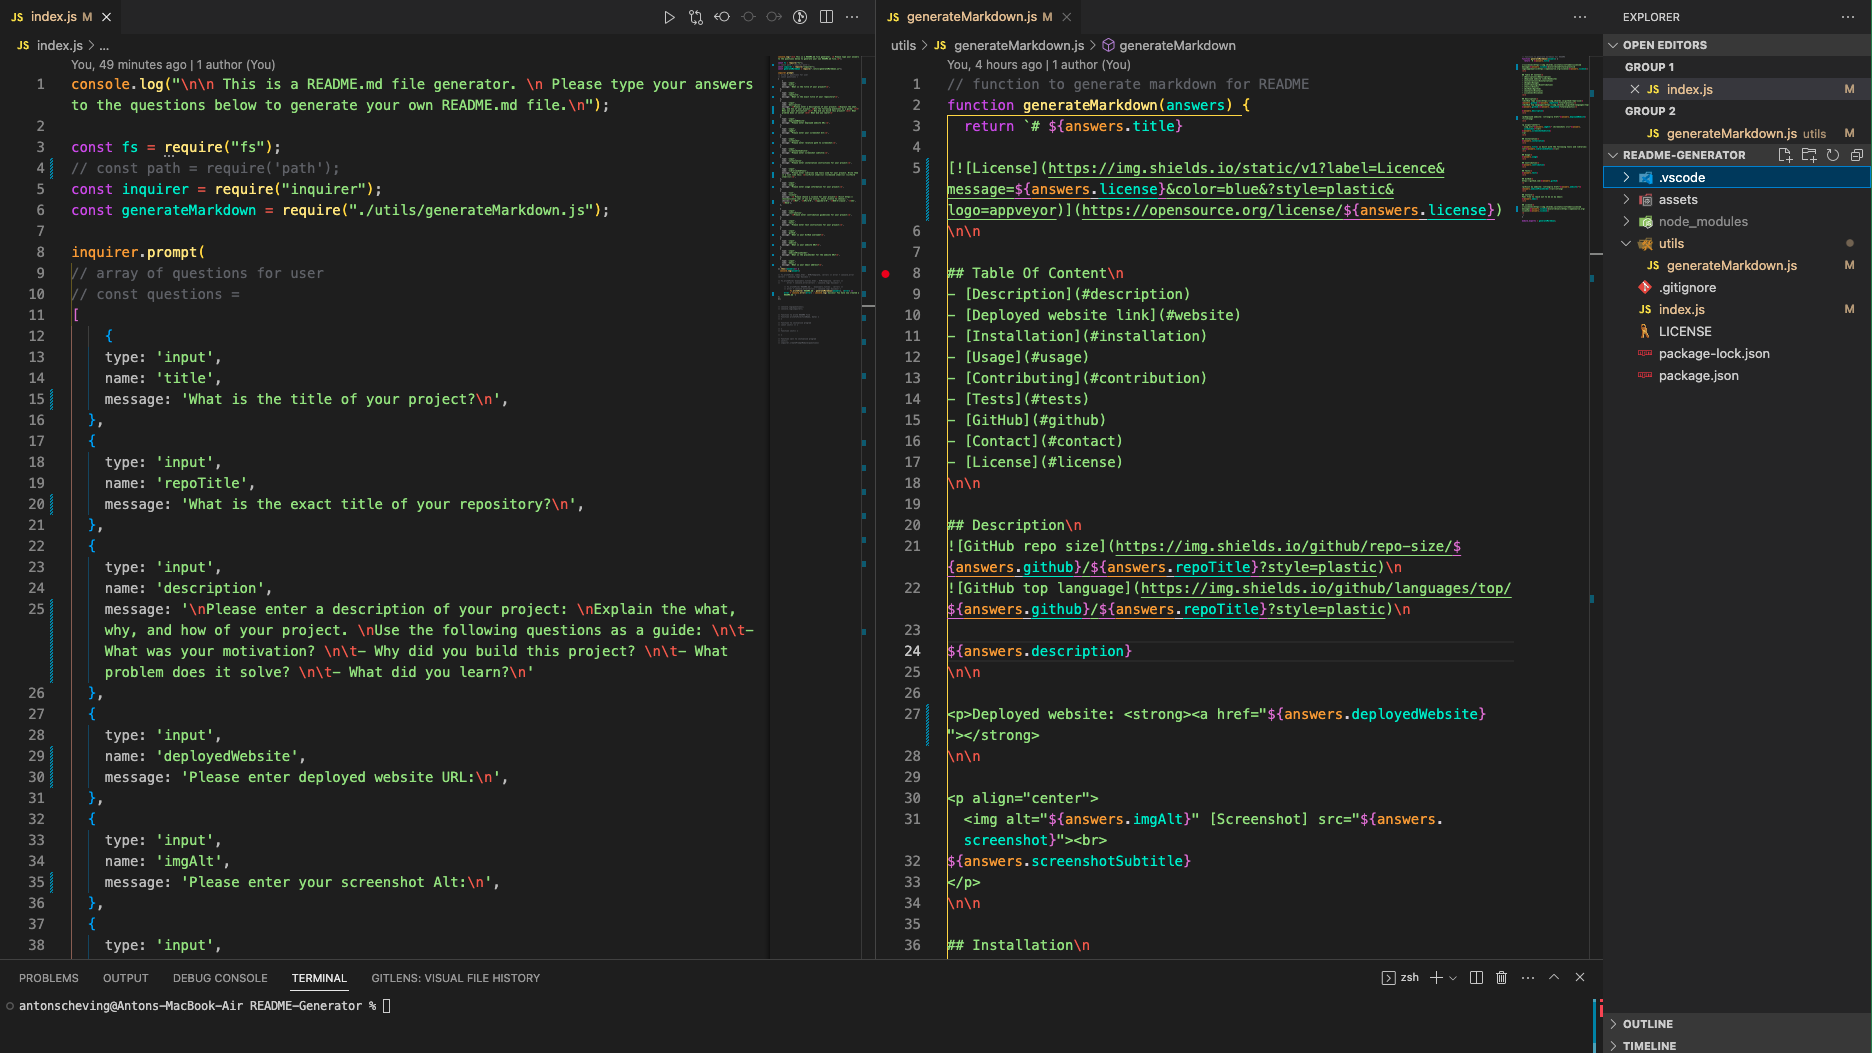
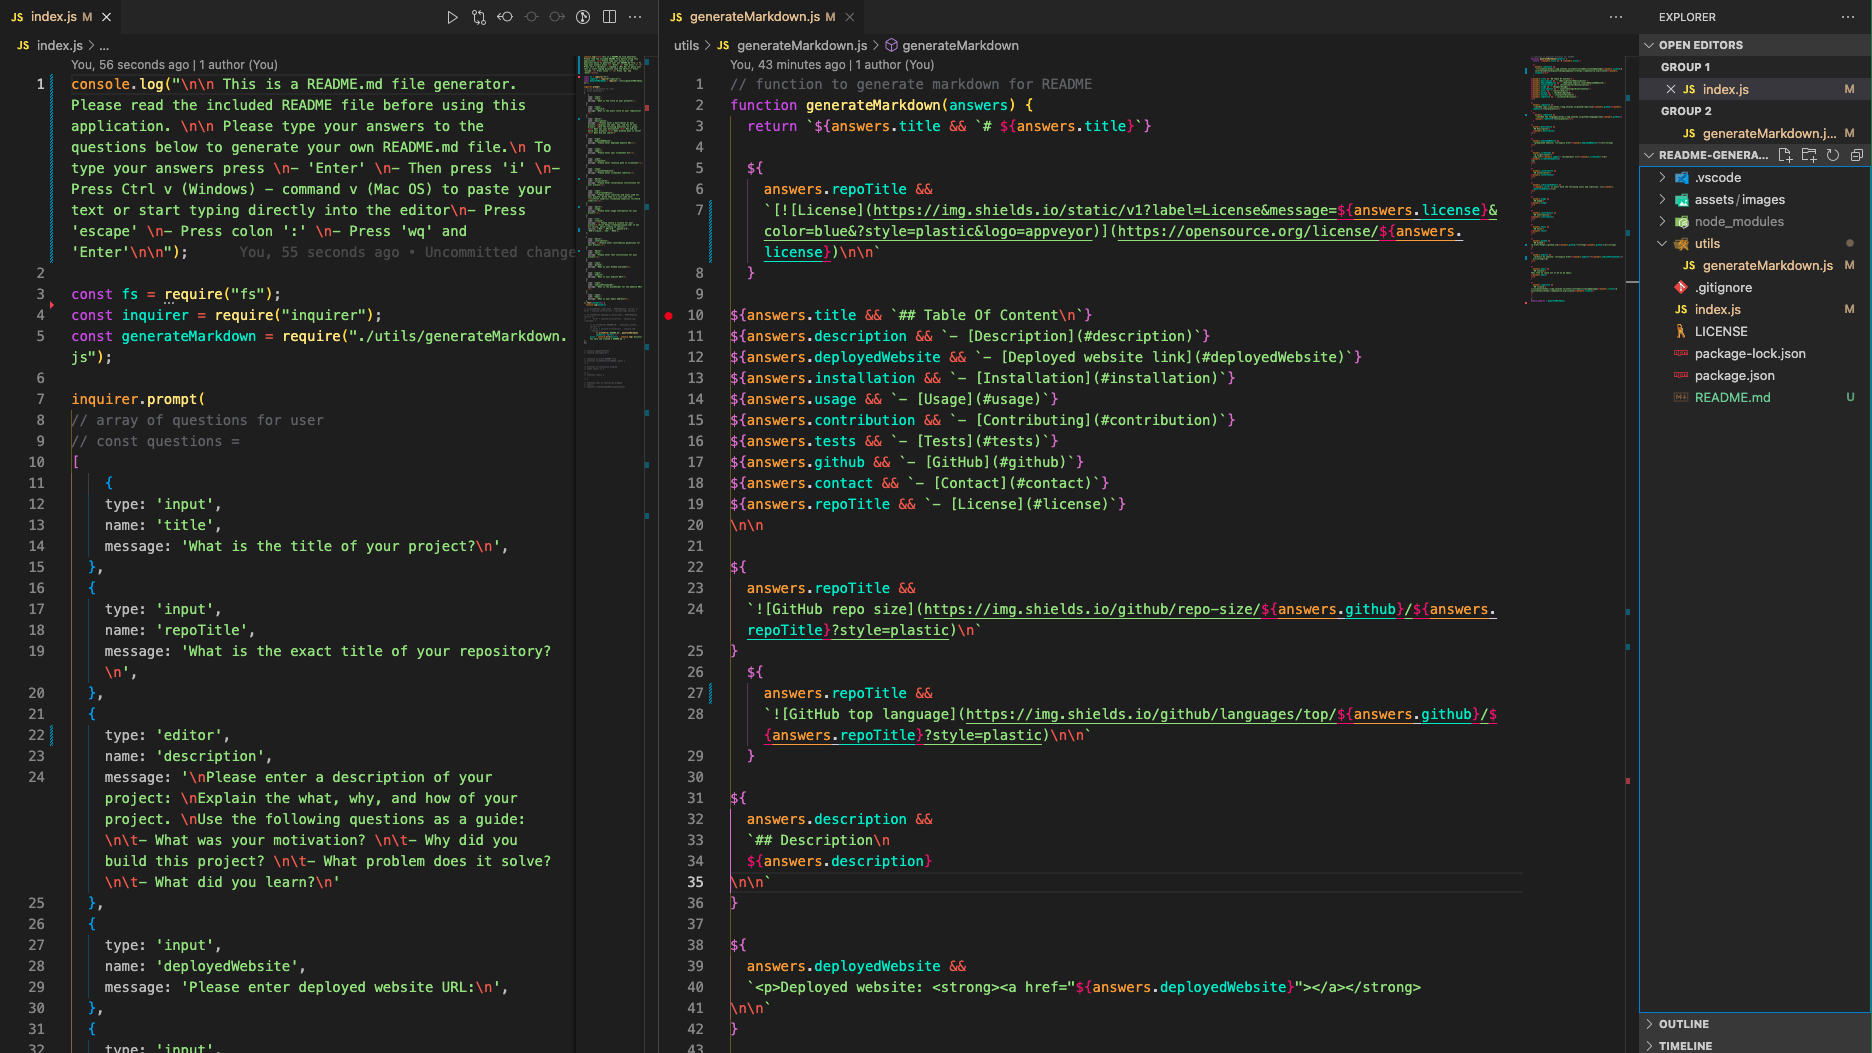
final touches

diff --git a/utils/generateMarkdown.js b/utils/generateMarkdown.js
@@ -4,8 +4,7 @@ function generateMarkdown(answers) {
 
   ${
     answers.repoTitle &&
-    `[![License](https://img.shields.io/static/v1?label=Licence&message=${answers.license}&color=blue&?style=plastic&logo=appveyor)](https://opensource.org/license/${answers.license})
-\n\n`
+    `[![License](https://img.shields.io/static/v1?label=License&message=${answers.license}&color=blue&?style=plastic&logo=appveyor)](https://opensource.org/license/${answers.license})\n\n`
   }
 
 ${answers.title && `## Table Of Content\n`}
@@ -16,7 +15,7 @@ ${answers.usage && `- [Usage](#usage)`}
 ${answers.contribution && `- [Contributing](#contribution)`}
 ${answers.tests && `- [Tests](#tests)`}
 ${answers.github && `- [GitHub](#github)`}
-${answers.contact && `- [Contact](#contact)`}
+${answers.email && `- [Contact](#contact)`}
 ${answers.repoTitle && `- [License](#license)`}
 \n\n
 
@@ -25,7 +24,7 @@ ${
   `![GitHub repo size](https://img.shields.io/github/repo-size/${answers.github}/${answers.repoTitle}?style=plastic)\n`
 }
   ${
-    answers.github &&
+    answers.repoTitle &&
     `![GitHub top language](https://img.shields.io/github/languages/top/${answers.github}/${answers.repoTitle}?style=plastic)\n\n`
   }
 
@@ -35,13 +34,13 @@ ${
   ${answers.description}
 \n\n`
 }
-
+\n
 ${
   answers.deployedWebsite &&
   `<p>Deployed website: <strong><a href="${answers.deployedWebsite}"></a></strong>
 \n\n`
 }
-
+\n
 ${
   answers.screenshot &&
   `<p align="center">
@@ -50,7 +49,7 @@ ${answers.screenshotSubtitle}
 </p>
 \n\n`
 }
-
+\n
 ${
   answers.installation &&
   `## Installation\n
@@ -63,41 +62,41 @@ ${
   `${answers.title} is built with the following tools and libraries: <ul>${answers.librariesAndTools}</ul>
 \n\n`
 }
-
+\n
 ${
   answers.usage &&
   `## Usage\n 
 ${answers.usage}
 \n\n`
 }
-
+\n
 ${
   answers.contribution &&
   `## Contribution\n 
 ${answers.contribution}
 \n\n`
 }
-
+\n
 ${
   answers.tests &&
   `## Tests\n 
 ${answers.tests}
 \n\n`
 }
-
+\n
 ${
   answers.github &&
   `## GitHub\n
-https://github.com/${answers.github}
+<a href="https://github.com/${answers.github}"><strong>${answers.github}</a></strong>
 \n`
 }
 
 ${
   answers.website &&
-  `<p>Visit my website: <strong><a href="${answers.website}">${answers.webLinkPlaceholder}</a></strong>
+  `<p>Visit my website: <strong><a href="${answers.website}">${answers.webLinkPlaceholder}</a></strong></p>
 \n\n`
 }
-
+\n
 ${
   answers.email &&
   `## Contact\n
@@ -105,7 +104,7 @@ Feel free to reach out to me on my email:
 ${answers.email}
 \n\n`
 }
-
+\n
 ${
   answers.repoTitle &&
   `## License\n
@@ -115,10 +114,3 @@ ${
 `;
 }
 module.exports = generateMarkdown;
-
-// TODO
-// work on the README content
-// do a git push
-// work on the video
-// test the README for user input and titles not including
-// undefined in README because license value is not displayed 

diff --git a/index.js b/index.js
@@ -1,11 +1,6 @@
-// Can The empty user inputs remove the markdown titles automatically?
-// is the gitignore correct?
-// how to input preformatted text for markdown and the different lins
-
-console.log("\n\n This is a README.md file generator. \n Please type your answers to the questions below to generate your own README.md file.\n To type your answers press \n - 'Enter' \n - then press 'i' \npress Ctrl v (Windows) - command v (Mac OS) \n press 'escape' \n press colon (:) \n press wq and enter");
+console.log("\n\n This is a README.md file generator. Please read the included README file before using this application. \n\n Please type your answers to the questions below to generate your own README.md file.\n To type your answers press \n- 'Enter' \n- Then press 'i' \n- Press Ctrl v (Windows) - command v (Mac OS) to paste your text or start typing directly into the editor\n- Press 'escape' \n- Press colon ':' \n- Press 'wq' and 'Enter'\n\n");
 
 const fs = require("fs");
-// const path = require('path');
 const inquirer = require("inquirer");
 const generateMarkdown = require("./utils/generateMarkdown.js");
 
@@ -24,7 +19,7 @@ inquirer.prompt(
     message: 'What is the exact title of your repository?\n',
   },
   {
-    type: 'input',
+    type: 'editor',
     name: 'description',
     message: '\nPlease enter a description of your project: \nExplain the what, why, and how of your project. \nUse the following questions as a guide: \n\t- What was your motivation? \n\t- Why did you build this project? \n\t- What problem does it solve? \n\t- What did you learn?\n'
   },
@@ -49,7 +44,7 @@ inquirer.prompt(
     message: 'Please enter screenshot subtitle:\n',
   },
   {
-    type: 'input',
+    type: 'editor',
     name: 'installation',
     message: 'Please enter installation instructions for your project:\n',
   },
@@ -59,7 +54,7 @@ inquirer.prompt(
     message: 'Please enter libraries and tools used for your project. Write them in a list like this: \n<li>First item</li> <li>Second item</li> <li>Third item</li>:\n',
   },
   {
-    type: 'input',
+    type: 'editor',
     name: 'usage',
     message: 'Please enter usage information for your project:\n',
   },
@@ -67,7 +62,7 @@ inquirer.prompt(
     type: 'list',
     name: 'license',
     message: '\n Please choose a license for your project\n (Visit https://choosealicense.com/ if you are unsure, which license to choose):',
-    choices: ['\tMIT', '\tGPL-3-0', '\tapache-2-0', '\tBSD-3-clause', '\tISC', '\t0bsd'],
+    choices: ['MIT', 'GPL-3-0', 'apache-2-0', 'BSD-3-clause', 'ISC', '0bsd'],
   },
   
   {
@@ -76,7 +71,7 @@ inquirer.prompt(
     message: '\nPlease enter contribution guidelines for your project:\n',
   },
   {
-    type: 'input',
+    type: 'editor',
     name: 'tests',
     message: 'Please enter test instructions for your project:\n',
   },

diff --git a/README.md b/README.md
@@ -1,0 +1,143 @@
+# README Generator
+
+  [![License](https://img.shields.io/static/v1?label=License&message=MIT&color=blue&?style=plastic&logo=appveyor)](https://opensource.org/license/MIT)
+
+
+
+## Table Of Content
+
+- [Description](#description)
+
+- [Installation](#installation)
+- [Usage](#usage)
+- [Contributing](#contribution)
+- [Tests](#tests)
+- [GitHub](#github)
+- [Contact](#contact)
+- [License](#license)
+
+
+<br>
+
+![GitHub repo size](https://img.shields.io/github/repo-size/AntonScheving/README-Generator?style=plastic)
+
+  ![GitHub top language](https://img.shields.io/github/languages/top/AntonScheving/README-Generator?style=plastic)
+
+<br>
+
+## Description
+
+  The README Generator project is a command-line tool that automatically generates a README.md file for a project based on user input. The tool is written in JavaScript and prompts the user with questions about the project, such as the project title, description, installation instructions, usage instructions, contribution guidelines, and more.
+
+The motivation behind creating this project was to provide a solution to the problem of developers spending countless hours creating a README file for their project. Creating a well-documented README file is essential for showcasing a project and making it accessible to other developers. However, the process of creating one from scratch can be time-consuming and tedious. This tool streamlines the process and saves developers time and effort.
+
+The project solves the problem of creating a professional-looking and well-documented README.md file for a project. The tool ensures that all the necessary sections are included and formatted correctly, and it almost eliminates the need for manual formatting and editing.
+
+Through this project, I learned how to use Node.js to build a command-line application, how to prompt users with questions and store their responses, and how to dynamically generate a Markdown file. I also gained experience in working with Git and GitHub for version control.
+<br><br><br>
+
+<p align="center">
+  <img alt="README Generator Code screenshot" [Screenshot] src="assets/images/README-Generator-Screenshot.png"><br>
+README Generator code 
+</p>
+<br>
+
+## Installation
+
+To install and use the README Generator, follow these step-by-step instructions:
+
+1. Clone the GitHub repository: Start by cloning the GitHub repository to your local machine using the command:
+
+```jsx
+
+git clone https://github.com/AntonScheving/README-Generator.git
+```
+
+1. Install Node.js: If you don't have Node.js installed on your machine, download and install it from the official website: **[https://nodejs.org/en/](https://nodejs.org/en/)**.
+2. Install dependencies: Navigate to the project directory in your terminal and run the following command to install the required dependencies:
+
+```jsx
+
+npm install --save inquirer fs
+```
+
+1. Run the generator: To run the README Generator, run the following command in your terminal:
+
+```jsx
+
+node index.js
+```
+
+1. Answer the prompts in the terminal: The generator will prompt you with a series of questions about your project. Answer each question as accurately as possible. See the Usage section to learn how to answer long-form questions.
+2. Generate README.md file: Once you have answered all the questions, the generator will generate the README.md file based on your answers. The generated file will be saved in the project directory.
+3. Review and edit the generated README.md file: Review the generated README.mdfile and make any necessary edits or additions to ensure that it accurately represents your project and provides all the necessary information.
+
+That's it! With these steps, you can generate a professional-looking README.md file for your project with minimal effort.
+
+README Generator is built with the following tools and libraries: <ul><li>JavaScript</li> <li>Node.js</li> <li>NPM packages - inquirer & fs</li> <li>Markdown</li></ul>
+<br>
+
+## Usage
+ 
+Here are step-by-step instructions for using the README Generator:
+
+1. Open your terminal and navigate to the directory where the generator files are located.
+2. Run the command "node index.js" to start the generator.
+3. The generator will prompt you with a series of questions about your project, such as the project title, description, installation instructions, usage instructions, contribution guidelines, and more.
+4. This application uses the default text editor for most of the answers. In VS Code the default text editor is Vim. Please follow these instructions to use the Vim editor: 
+- To type your answer you are prompted to press  'Enter' to start using the editor
+- Then press 'i' to launch the editor interface
+- Start typing your answer or paste your answer with Ctrl v (Windows) or command v (Mac OS)
+- When you are done typing your answer press 'escape'
+- Press colon ‘:wq’ and enter to save and exit the editor to get to the next question
+1. The generator will store your responses in an object.
+2. Once you've answered all the questions, the generator will use that object to dynamically generate the README.md file.
+3. The generated README.md file will be located in the same directory as the generator files. Each generated file will override the previous file generated.
+4. Copy your generated README.md file and paste it into your own project folder.
+
+<br>
+
+## Contribution
+ 
+Thank you for considering contributing to this project! Please read the **[Contributor Covenant](https://www.contributor-covenant.org/)** before submitting any contributions.
+
+### **Types of Contributions**
+
+We welcome contributions in the form of bug reports, feature requests, code contributions, and documentation improvements.
+
+### **How to Contribute**
+
+1. Fork the repository and create a new branch.
+2. Make your changes and ensure that they are well-documented and tested.
+3. Submit a pull request to the main repository and include a detailed description of your changes.
+
+### **Code of Conduct**
+
+We expect all contributors to adhere to the **[Contributor Covenant](https://www.contributor-covenant.org/)**. Please be respectful and inclusive in your contributions and interactions with others.
+<br><br>
+
+## Tests
+ 
+After the README Generator has generated the README.md file based on your input, it is important to test the file to ensure that it contains all the necessary sections and information, and that the formatting is correct. 
+<br><br>
+
+## GitHub
+
+<a href="https://github.com/AntonScheving"><strong>AntonScheving</a></strong>
+
+
+
+<p>Visit my website: <strong><a href="www.antonscheving.com">AntonScheving.com</a></strong></p>
+<br>
+
+## Contact
+
+Feel free to reach out to me on my email:
+anton@scheving.email
+<br><br>
+
+## License
+
+[![License](https://img.shields.io/static/v1?label=Licence&message=MIT&color=blue)](https://opensource.org/license/MIT)
+
+
